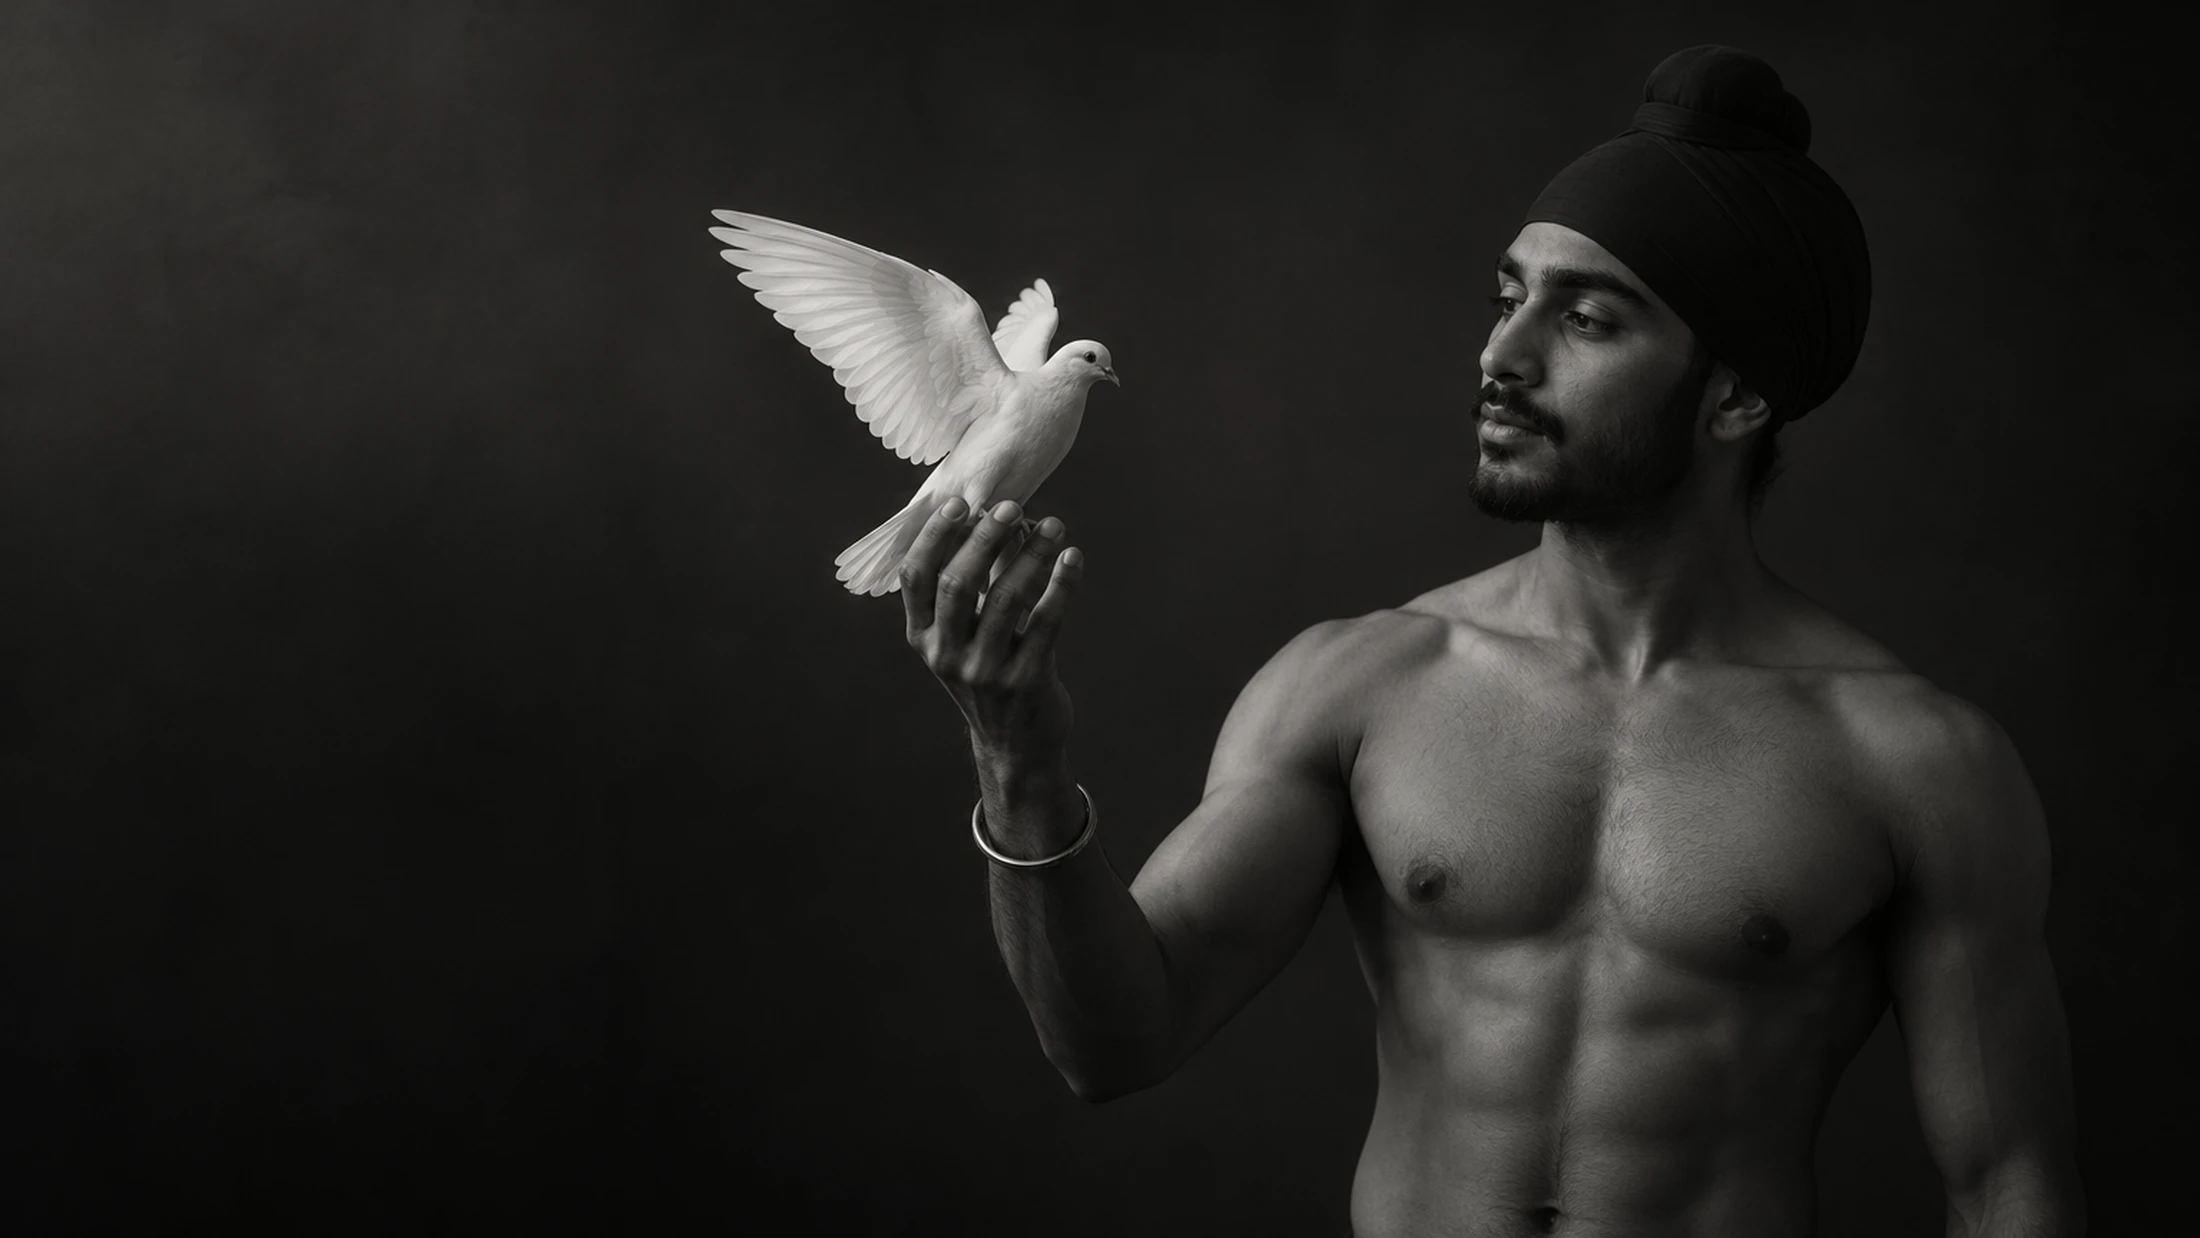
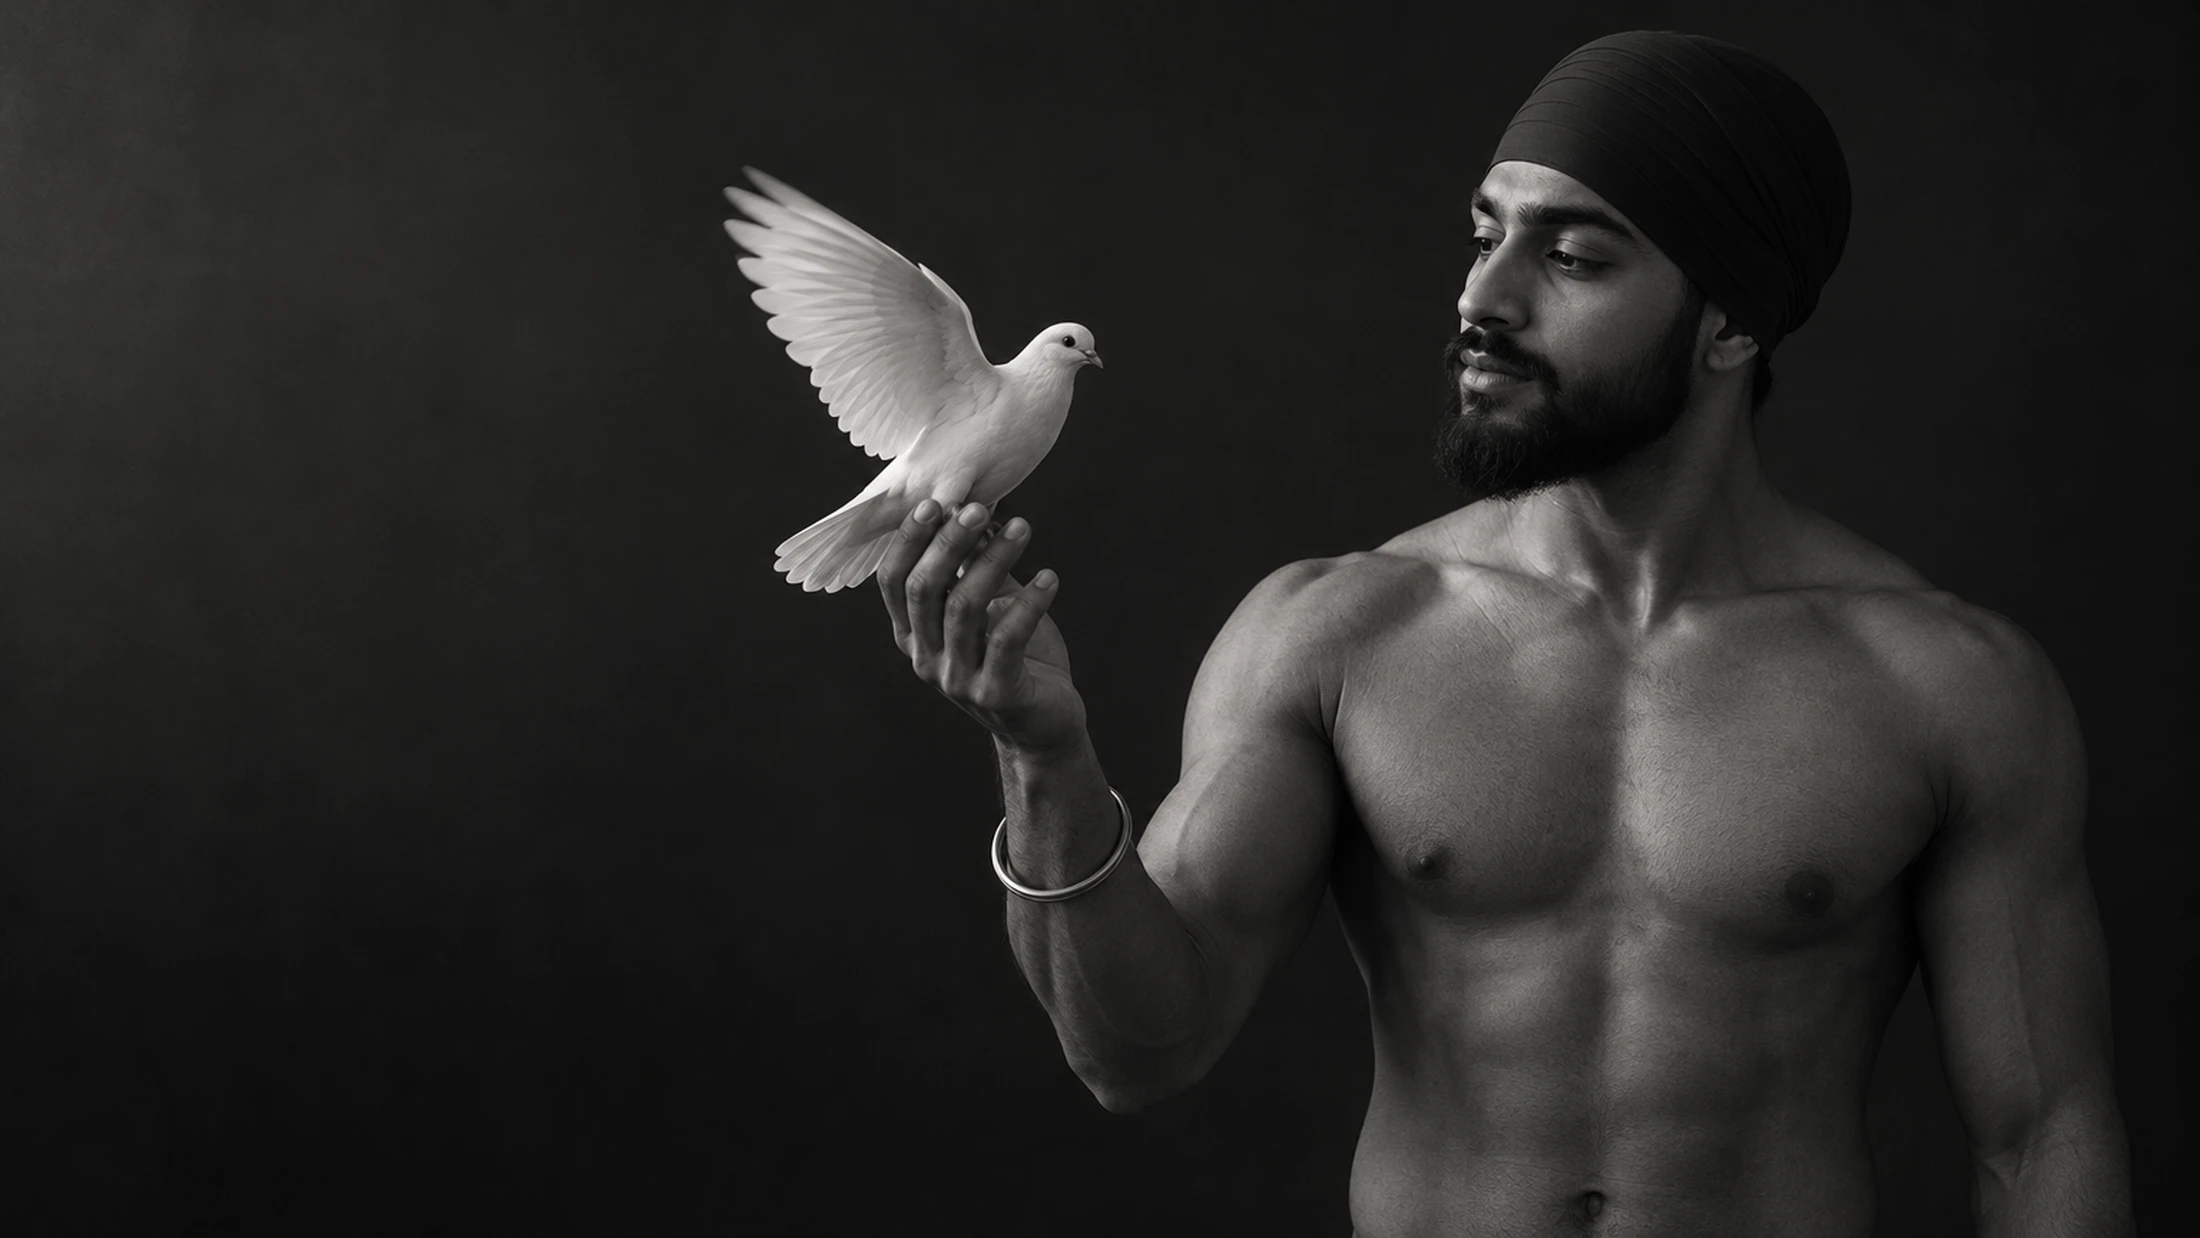
Fix headwear and composition on Punjab Projects page photos
The 4 generated images were rendering a patka-style bump instead of a
proper flat-wrapped parna, and the training shot had a confusing
unexplained third figure standing idle. Regenerated all 4 with
explicit parna styling and simplified the training shot to a clear
coach + student pad-work scene.

Claude-Session: https://claude.ai/code/session_012SmCG1nsQkeQbemVrxzSU2

Changed region(s): [[0.3091, 0.0307, 0.9891, 1.0], [0.8036, 0.8901, 0.8345, 1.0]]

diff --git a/src/app/(immersive)/punjab-projects/page.tsx b/src/app/(immersive)/punjab-projects/page.tsx
@@ -53,7 +53,7 @@ export default function PunjabPage() {
 
       <div className="grid gap-2.5 px-2 md:grid-cols-4">
         <div className="relative h-[260px] overflow-hidden rounded-xl md:col-span-2 md:h-[420px]">
-          <Image src="/photos/punjab-grid-training.webp" alt="Teenagers sparring with a coach holding pads in a Punjab gym" fill sizes="(min-width: 768px) 50vw, 100vw" className="object-cover" />
+          <Image src="/photos/punjab-grid-training.webp" alt="A teenager training pad work with his coach in a Punjab gym" fill sizes="(min-width: 768px) 50vw, 100vw" className="object-cover" />
         </div>
         <div className="relative hidden h-[420px] overflow-hidden rounded-xl md:block">
           <Image src="/photos/punjab-grid-wraps.webp" alt="A young Sikh boxer wrapping his hands before training" fill sizes="25vw" className="object-cover" />
